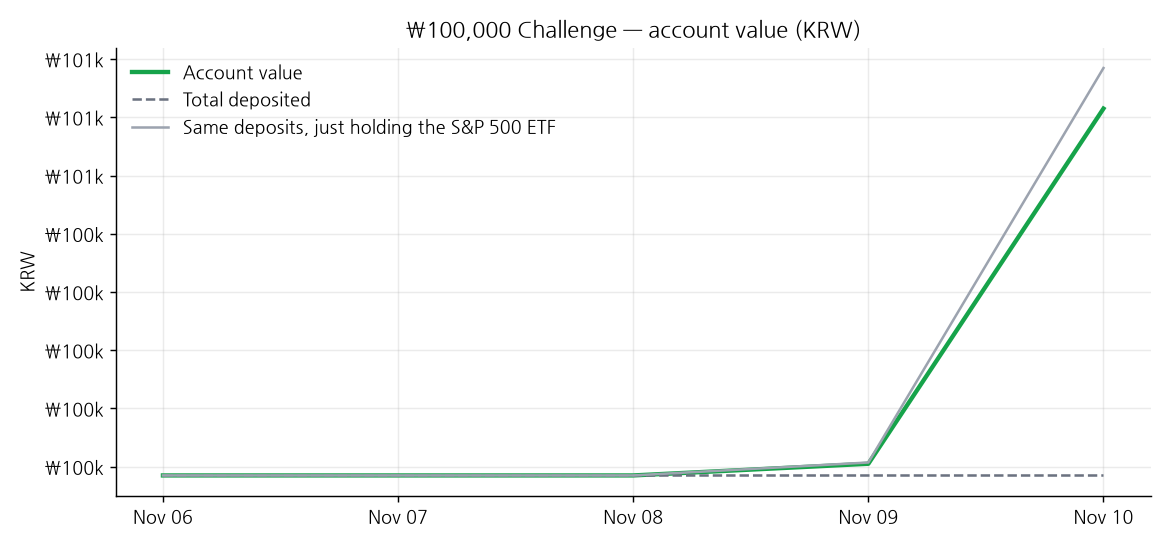
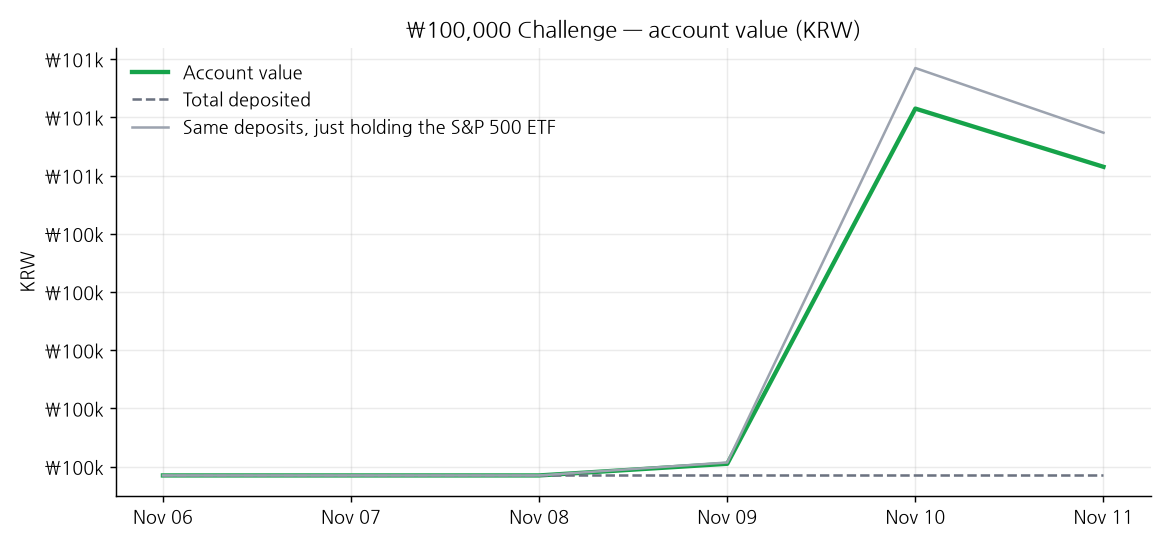
KRW 100k challenge 2026-11-11: 100,630 KRW

diff --git a/README.md b/README.md
@@ -31,20 +31,20 @@
 
 <!-- CHALLENGE:START -->
 
-## 💵 ₩100,000 (≈$74) Auto-Trading Challenge
+## 💵 ₩100,000 (≈$75) Auto-Trading Challenge
 
-> Started with **₩100,000** on 2026-11-06 and adding **₩100,000 (≈$74) every month**. A Raspberry Pi bot trades a real Korean brokerage account on its own — every number below is real and updated daily. (USD values are approximate, converted at today's rate.)
+> Started with **₩100,000** on 2026-11-06 and adding **₩100,000 (≈$75) every month**. A Raspberry Pi bot trades a real Korean brokerage account on its own — every number below is real and updated daily. (USD values are approximate, converted at today's rate.)
 
 | | |
 |---|---|
-| 💰 Account value | **₩100,830** (≈$75) |
-| 🏦 Total deposited | ₩99,570 (≈$74) |
-| 📈 Profit / loss | **+₩1,260** (≈$1) (+1.27% of deposits) |
-| ⚙ Bot strategy return (deposits excluded) | +1.27% |
-| 📊 Just holding the S&P 500 ETF, same period | +1.41% |
-| 🆚 Same deposits, just holding the S&P 500 ETF | ₩100,969 (≈$75) |
+| 💰 Account value | **₩100,630** (≈$75) |
+| 🏦 Total deposited | ₩99,570 (≈$75) |
+| 📈 Profit / loss | **+₩1,060** (≈$1) (+1.06% of deposits) |
+| ⚙ Bot strategy return (deposits excluded) | +1.06% |
+| 📊 Just holding the S&P 500 ETF, same period | +1.18% |
+| 🆚 Same deposits, just holding the S&P 500 ETF | ₩100,747 (≈$76) |
 | 🧭 Market regime | 🟢 BULL — S&P 500 above its 200-day average → 100% S&P 500 ETF |
-| 💱 USD/KRW used above | **1,342.71** (market close 2026-11-10, updated 2026-11-11 07:30 KST) |
+| 💱 USD/KRW used above | **1,334.11** (market close 2026-11-11, updated 2026-11-11 16:00 KST) |
 
 ![USD/KRW live](https://img.shields.io/badge/dynamic/json?url=https%3A%2F%2Fopen.er-api.com%2Fv6%2Flatest%2FUSD&query=%24.rates.KRW&label=USD%2FKRW%20now&prefix=%E2%82%A9&color=0a7&cacheSeconds=3600)
 
@@ -56,7 +56,7 @@
 
 | ETF | Shares | Price | Value | Weight |
 |---|---|---|---|---|
-| 379800 · KODEX 미국S&P500 (S&P 500 ETF) | 4 | ₩22,730 | ₩90,920 | 90.2% |
+| 379800 · KODEX 미국S&P500 (S&P 500 ETF) | 4 | ₩22,680 | ₩90,720 | 90.2% |
 | Cash | | | ₩9,910 | 9.8% |
 
 <details><summary>How it works</summary>
@@ -74,7 +74,7 @@
 
 If you enjoy following this, you can [sponsor me](https://github.com/sponsors/chomuscleguy). Donations are **support for the project only** — they are not invested in this account and carry no returns, shares or refunds.
 
-<sub>Not investment advice. Personal experiment. Last updated 2026-11-11 07:30 KST.</sub>
+<sub>Not investment advice. Personal experiment. Last updated 2026-11-11 16:00 KST.</sub>
 
 <!-- CHALLENGE:END -->
 
@@ -87,15 +87,15 @@ If you enjoy following this, you can [sponsor me](https://github.com/sponsors/ch
 | Strategy | Since | Bot return | Benchmark | vs benchmark | Regime |
 |---|---|---|---|---|---|
 | **🇺🇸 US stocks** — 10 high-conviction stocks from top investors' 13F filings | 2026-11-05 | **+4.23%** | S&P 500 (SPY) +2.31% | +1.92% | 🟢 BULL |
-| **🇰🇷 Korean stocks** — Top 10 holdings of Korea's National Pension Service (5%+ stakes) | 2026-11-06 | **-0.10%** | KOSPI 200 (KODEX 200) +3.79% | -3.89% | 🔴 BEAR |
+| **🇰🇷 Korean stocks** — Top 10 holdings of Korea's National Pension Service (5%+ stakes) | 2026-11-06 | **+0.54%** | KOSPI 200 (KODEX 200) +7.01% | -6.47% | 🔴 BEAR |
 
 ![Paper-trading returns](paper/returns.png)
 
 - 🇺🇸 US stocks top holdings: AMD 11%, TSLA 10%, AVGO 10%, AMZN 10%, META 10%, AAPL 10% · cash 2%
-- 🇰🇷 Korean stocks top holdings: KODEX 단기채권 50%, 하나금융지주 5%, 신한지주 5%, 현대모비스 5%, 삼성SDI 5% · cash 14%
+- 🇰🇷 Korean stocks top holdings: KODEX 단기채권 49%, 하나금융지주 5%, 신한지주 5%, 현대모비스 5%, 삼성SDI 5% · cash 14%
 
 Full dashboard: [portfolio-dashboard](https://github.com/chomuscleguy/portfolio-dashboard)
 
-<sub>Simulated account, returns only (no amounts). Not investment advice. Updated 2026-11-11 07:30 KST.</sub>
+<sub>Simulated account, returns only (no amounts). Not investment advice. Updated 2026-11-11 16:00 KST.</sub>
 
 <!-- PAPER:END -->
